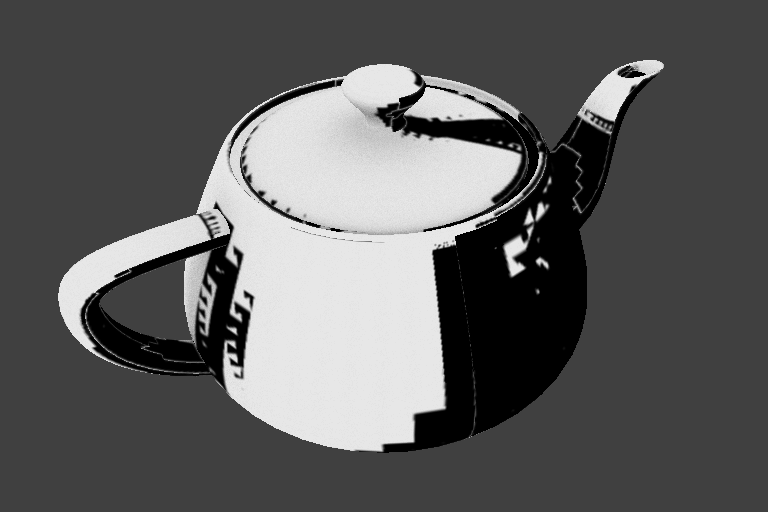
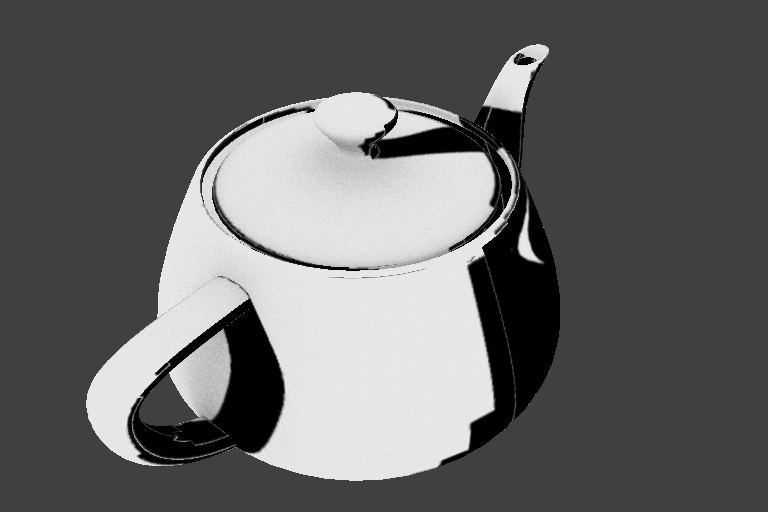
interpolate using barycentric coordinates instead of weighted average

Changed region(s): [[0.0625, 0.0625, 0.875, 0.9375]]

diff --git a/intersect.cpp b/intersect.cpp
@@ -101,15 +101,29 @@ bool MoBBox::intersect(const MoRay& ray, float* t_near, float* t_far) const
     return tmax >= tmin;
 }
 
-float3 MoTriangle::interpolate(const float2& uv) const
+float3 MoTriangle::uvInterpolate(const float2& uv) const
 {
-    float w0,w1,w2;
+    float3 barycentricCoordinates = uvBarycentric(uv);
+    return v0 * barycentricCoordinates[0] + v1 * barycentricCoordinates[1] + v2 * barycentricCoordinates[2];
+}
 
-    w0 = length(uv - uv0);
-    w1 = length(uv - uv1);
-    w2 = length(uv - uv2);
+float3 MoTriangle::uvBarycentric(const float2 &uv) const
+{
+    float x[4] = {uv.x, uv0.x, uv1.x, uv2.x};
+    float y[4] = {uv.y, uv0.y, uv1.y, uv2.y};
 
-    return (v0 * w0 + v1 * w1 + v2 * w2) / (w0 + w1 + w2);
+    float d = (y[2] - y[3]) * (x[1] - x[3]) + (x[3] - x[2]) * (y[1] - y[3]);
+    float l1 = ((y[2] - y[3]) * (x[0] - x[3]) + (x[3] - x[2]) * (y[0] - y[3]))
+            / d;
+    float l2 = ((y[3] - y[1]) * (x[0] - x[3]) + (x[1] - x[3]) * (y[0] - y[3]))
+            / d;
+    float l3 = 1 - l1 - l2;
+
+#if 0
+    float2 test = l1 * uv0 + l2 * uv1 + l3 * uv2;
+#endif
+
+    return float3(l1, l2, l3);
 }
 
 // Adapted from the Möller–Trumbore intersection algorithm

diff --git a/main.cpp b/main.cpp
@@ -75,7 +75,7 @@ int main(int, char**)
             };
 
             int2 resolution(1024,1024);
-            std::vector<Sample> outputUV(resolution[0] * resolution[1], {0,0,0,0});
+            std::vector<Sample> outputUV(resolution[0] * resolution[1], {255,255,255,255});
             std::vector<Sample> output3D(resolution[0] * resolution[1], {0,0,0,0});
 
             double fov = 75.0 * 3.14159 / 360;
@@ -107,7 +107,7 @@ int main(int, char**)
                         std::uint32_t index = (resolution[1] - row - 1) * resolution[0] + column;
                         if (moIntersectBVH(node->mesh->bvhUV, MoRay(float3(uv, -1.0f), {0,0,1}), intersection, &uvIntersectAlgorithm))
                         {
-                            float3 world = intersection.interpolate(uv);
+                            float3 world = intersection.uvInterpolate(uv);
 
                             auto dir = float3(-100,40,40)-world;
                             dir = normalize(dir);

diff --git a/intersect.h b/intersect.h
@@ -60,7 +60,8 @@ struct MoTriangle
     {
         return linalg::aliases::float3((uv0 + uv1 + uv2) / 3.0f, 0.f);
     }
-    linalg::aliases::float3 interpolate(const linalg::aliases::float2& uv) const;
+    linalg::aliases::float3 uvInterpolate(const linalg::aliases::float2& uv) const;
+    linalg::aliases::float3 uvBarycentric(const linalg::aliases::float2& uv) const;
 };
 
 bool moRayTriangleIntersect(const MoRay& ray, const MoTriangle& triangle, linalg::aliases::float3& intersectionPoint);

diff --git a/README.md b/README.md
@@ -3,6 +3,7 @@
 ![sample viewer_output](https://raw.githubusercontent.com/mittpat/meshoui-ray/master/screenshot.png)
 
 Efficient baking of self-shadowing to texture on CPU.
+Works by raycasting from uv coordinates on the surface of the model to a light source.
 
 Compiling
 -------
